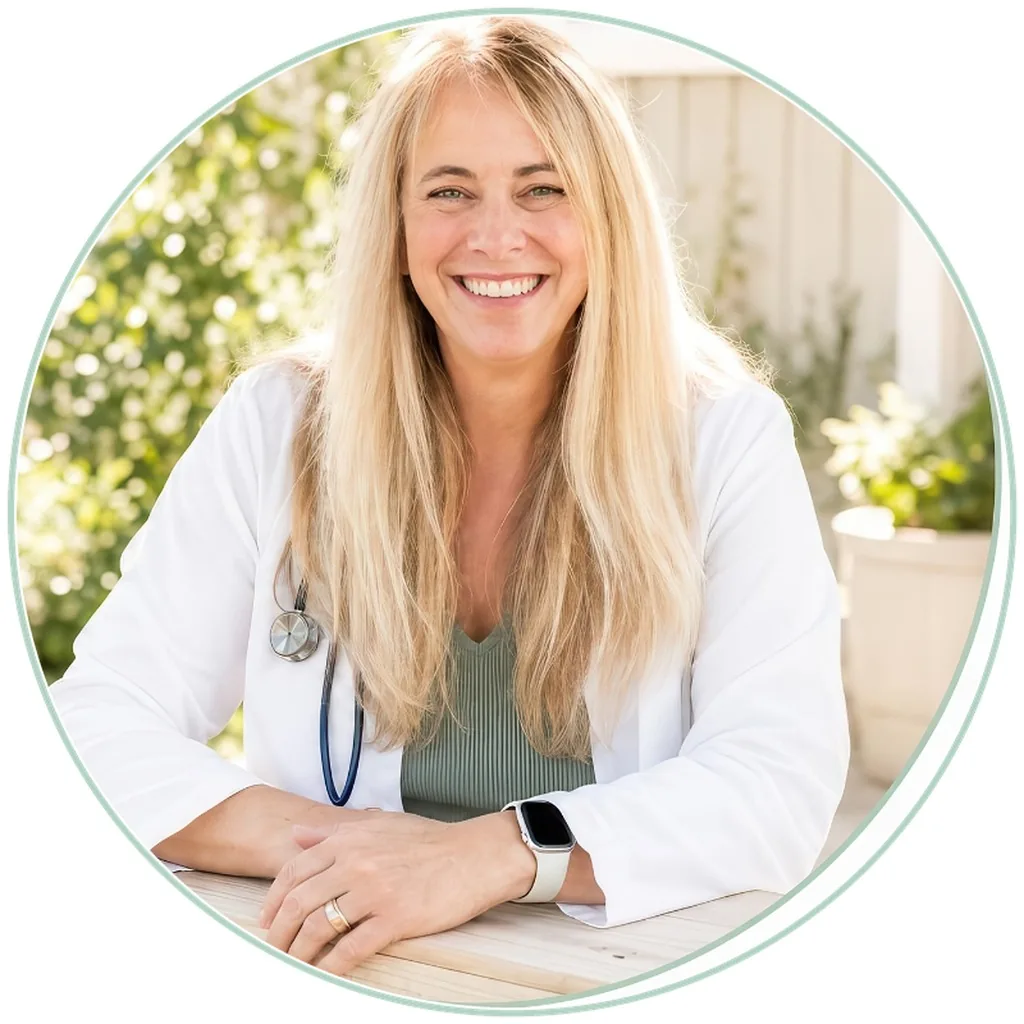
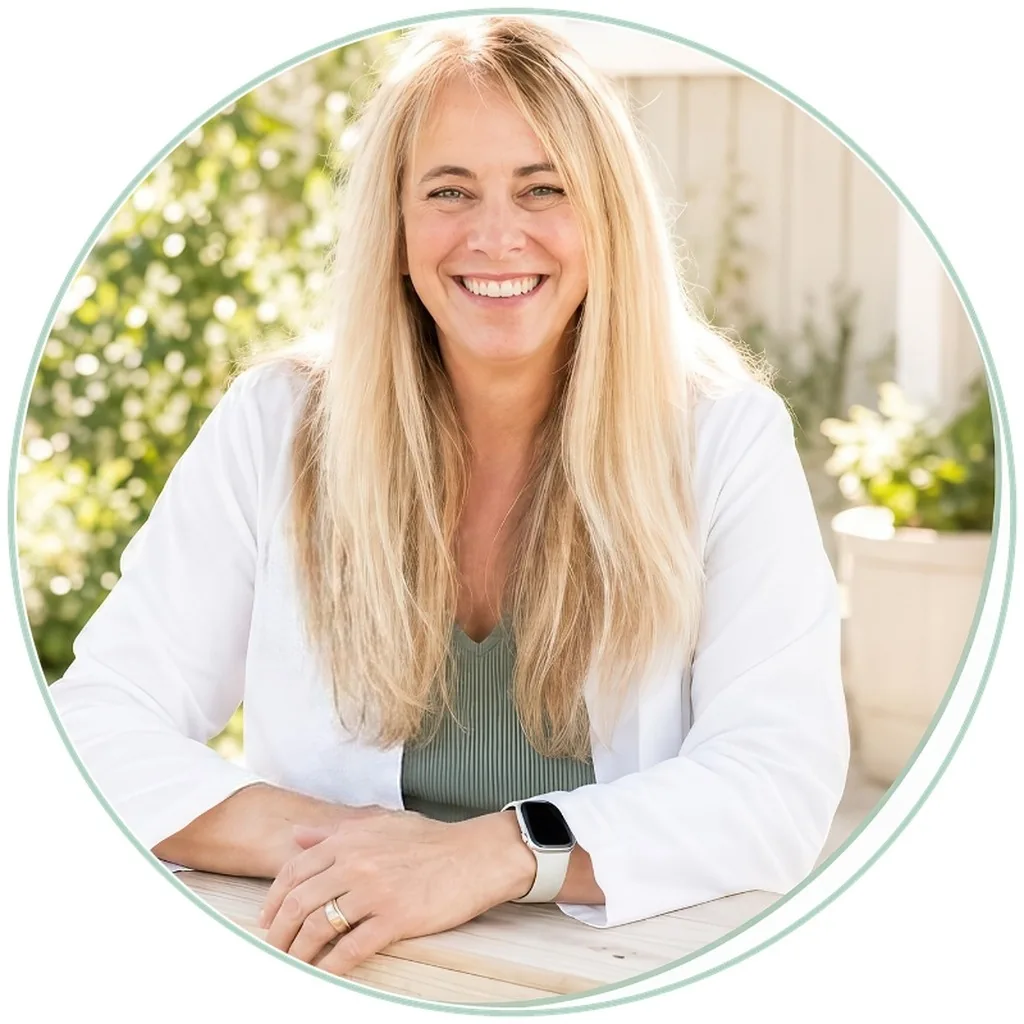
Remove fabricated stethoscope from headshot; unify author name to "Lisa Pocius, MD"
Headshot:
The live 1024px headshot showed a stethoscope that does not exist in the
source photograph. It was fabricated by the Publishflow.ai edit: the
chestpiece connected to a tubing stub that went nowhere, a separate blue
loop never joined it, and there were no earpieces. Lisa supplied a
corrected A+ module without it.

Verified the two edits are the same underlying photograph via SIFT +
RANSAC: 275 inliers of 364 matches, scale 1.3902, rotation -0.05 deg.
Warped the corrected version into the original coordinate frame and
patched only the differing region (~16,000 px of coat), with exposure
matched across the seam.

Face, hair, eyes, green top, hands, ring, watch and background are
untouched by the patch: zero pixels changed outside the coat region.
Inspected at 4x for seams and residual outlines. Regenerated
author-headshot.jpg (172 KB) and the 400/800/1024 WebP variants at
sizes within a few percent of the files they replace.

Name:
The site referred to the author as both "Dr. Lisa Pocius" (34 places)
and "Lisa Pocius, MD" (the dominant form), which splits the entity for
search engines and AI systems. Standardized on "Lisa Pocius, MD"
everywhere: 22 blog bylines, homepage h2 and titles, image alt text,
meta and Open Graph descriptions, FAQPage schema, and the feed
generator defaults. The homepage title previously read "Dr. Lisa
Pocius, MD", stacking the credential twice.

Added a non-breaking space before "MD" in the homepage h2 and About h1
[…]

Changed region(s): [[0.25, 0.5312, 0.4062, 0.8125]]

diff --git a/index.html b/index.html
@@ -12,19 +12,19 @@
 <meta charset="UTF-8">
     <meta name="viewport" content="width=device-width, initial-scale=1.0">
     <meta name="description" content="Osteoporosis: The Book I Wish I'd Had When I Was Diagnosed by Lisa Pocius, MD. Expert guidance from a doctor who lives with the condition.">
-    <title>Osteoporosis &amp; Bone Health Guide | Dr. Lisa Pocius, MD</title>
+    <title>Osteoporosis &amp; Bone Health Guide | Lisa Pocius, MD</title>
     <!-- AI Discovery: canonical, Open Graph, Twitter -->
     <link rel="canonical" href="https://mybone.health/">
     <meta name="author" content="Lisa Pocius, MD">
     <meta property="og:type" content="website">
     <meta property="og:site_name" content="mybone.health">
-    <meta property="og:title" content="Osteoporosis | Dr. Lisa Pocius - Osteoporosis &amp; Bone Health Guide">
+    <meta property="og:title" content="Osteoporosis | Lisa Pocius, MD - Osteoporosis &amp; Bone Health Guide">
     <meta property="og:description" content="Osteoporosis: The Book I Wish I&#x27;d Had When I Was Diagnosed by Lisa Pocius, MD. Expert guidance from a doctor who lives with the condition.">
     <meta property="og:url" content="https://mybone.health/">
     <meta property="og:image" content="https://mybone.health/images/book-cover.png">
     <meta property="og:locale" content="en_US">
     <meta name="twitter:card" content="summary_large_image">
-    <meta name="twitter:title" content="Osteoporosis | Dr. Lisa Pocius - Osteoporosis &amp; Bone Health Guide">
+    <meta name="twitter:title" content="Osteoporosis | Lisa Pocius, MD - Osteoporosis &amp; Bone Health Guide">
     <meta name="twitter:description" content="Osteoporosis: The Book I Wish I&#x27;d Had When I Was Diagnosed by Lisa Pocius, MD. Expert guidance from a doctor who lives with the condition.">
     <meta name="twitter:image" content="https://mybone.health/images/book-cover.png">
     <script type="application/ld+json">
@@ -1139,10 +1139,10 @@
         <div class="section-container">
             <div class="about-content about-content-compact">
                 <div class="about-image about-image-compact">
-                    <picture><source type="image/webp" srcset="images/author-headshot-400.webp 400w, images/author-headshot-800.webp 800w, images/author-headshot-1024.webp 1024w" sizes="180px"><img src="images/author-headshot.jpg" alt="Dr. Lisa Pocius" width="1024" height="1024" loading="lazy" decoding="async"></picture>
+                    <picture><source type="image/webp" srcset="images/author-headshot-400.webp 400w, images/author-headshot-800.webp 800w, images/author-headshot-1024.webp 1024w" sizes="180px"><img src="images/author-headshot.jpg" alt="Lisa Pocius, MD" width="1024" height="1024" loading="lazy" decoding="async"></picture>
                 </div>
                 <div class="about-text">
-                    <h2 style="font-size: 1.8rem; margin-bottom: 0.75rem;">About Dr. Lisa Pocius</h2>
+                    <h2 style="font-size: 1.8rem; margin-bottom: 0.75rem;">About Lisa Pocius,&nbsp;MD</h2>
                     <p>I spent ten years in family practice and believed I understood osteoporosis. Then I fell in my own front yard at 55 and fractured four vertebrae. The diagnosis came afterward, and so did the discovery of how much the textbook leaves out. <em>Osteoporosis: The Book I Wish I'd Had When I Was Diagnosed</em> is what I put together in the months that followed, written for the person sitting where I sat. <a href="about.html">Read more about me &rarr;</a></p>
                     <div class="credentials credentials-compact">
                         <div class="credential">

diff --git a/faq.html b/faq.html
@@ -11,7 +11,7 @@
     </script>
 <meta charset="UTF-8">
     <meta name="viewport" content="width=device-width, initial-scale=1.0">
-    <meta name="description" content="Common osteoporosis questions answered by Dr. Lisa Pocius, a physician who lives with the condition: diagnosis, treatment, exercise, and nutrition.">
+    <meta name="description" content="Common osteoporosis questions answered by Lisa Pocius, MD, a physician who lives with the condition: diagnosis, treatment, exercise, and nutrition.">
     <title>Osteoporosis FAQ: Answers from a Doctor Who Has It</title>
     <!-- AI Discovery: canonical, Open Graph, Twitter -->
     <link rel="canonical" href="https://mybone.health/faq.html">
@@ -19,13 +19,13 @@
     <meta property="og:type" content="website">
     <meta property="og:site_name" content="mybone.health">
     <meta property="og:title" content="Osteoporosis FAQ: Expert Answers from a Doctor &amp; Patient | mybone.health">
-    <meta property="og:description" content="Common questions about osteoporosis answered by Dr. Lisa Pocius, a physician who lives with the condition. Learn about diagnosis, treatment, exercise, nutrition, and living well with bone loss.">
+    <meta property="og:description" content="Common questions about osteoporosis answered by Lisa Pocius, MD, a physician who lives with the condition. Learn about diagnosis, treatment, exercise, nutrition, and living well with bone loss.">
     <meta property="og:url" content="https://mybone.health/faq.html">
     <meta property="og:image" content="https://mybone.health/images/author-headshot.jpg">
     <meta property="og:locale" content="en_US">
     <meta name="twitter:card" content="summary_large_image">
     <meta name="twitter:title" content="Osteoporosis FAQ: Expert Answers from a Doctor &amp; Patient | mybone.health">
-    <meta name="twitter:description" content="Common questions about osteoporosis answered by Dr. Lisa Pocius, a physician who lives with the condition. Learn about diagnosis, treatment, exercise, nutrition, and living well with bone loss.">
+    <meta name="twitter:description" content="Common questions about osteoporosis answered by Lisa Pocius, MD, a physician who lives with the condition. Learn about diagnosis, treatment, exercise, nutrition, and living well with bone loss.">
     <meta name="twitter:image" content="https://mybone.health/images/author-headshot.jpg">
     <script type="application/ld+json">
     {
@@ -66,7 +66,7 @@
       "@context": "https://schema.org",
       "@type": "FAQPage",
       "name": "Osteoporosis FAQ: Expert Answers from a Doctor & Patient",
-      "description": "Common questions about osteoporosis answered by Dr. Lisa Pocius, a physician who lives with the condition.",
+      "description": "Common questions about osteoporosis answered by Lisa Pocius, MD, a physician who lives with the condition.",
       "author": {
         "@id": "https://mybone.health/#lisa-pocius"
       },

diff --git a/blog/index.html b/blog/index.html
@@ -11,7 +11,7 @@
     </script>
 <meta charset="UTF-8">
     <meta name="viewport" content="width=device-width, initial-scale=1.0">
-    <meta name="description" content="Bone Health Insights from Dr. Lisa Pocius. Articles on nutrition, exercise, medication, and living well with osteoporosis.">
+    <meta name="description" content="Bone Health Insights from Lisa Pocius, MD. Articles on nutrition, exercise, medication, and living well with osteoporosis.">
     <title>Blog | mybone.health - Bone Health Insights</title>
     <!-- AI Discovery: canonical, Open Graph, Twitter -->
     <link rel="canonical" href="https://mybone.health/blog/">
@@ -19,13 +19,13 @@
     <meta property="og:type" content="website">
     <meta property="og:site_name" content="mybone.health">
     <meta property="og:title" content="Blog | mybone.health - Bone Health Insights">
-    <meta property="og:description" content="Bone Health Insights from Dr. Lisa Pocius. Articles on nutrition, exercise, medication, and living well with osteoporosis.">
+    <meta property="og:description" content="Bone Health Insights from Lisa Pocius, MD. Articles on nutrition, exercise, medication, and living well with osteoporosis.">
     <meta property="og:url" content="https://mybone.health/blog/">
     <meta property="og:image" content="https://mybone.health/images/book-cover.png">
     <meta property="og:locale" content="en_US">
     <meta name="twitter:card" content="summary_large_image">
     <meta name="twitter:title" content="Blog | mybone.health - Bone Health Insights">
-    <meta name="twitter:description" content="Bone Health Insights from Dr. Lisa Pocius. Articles on nutrition, exercise, medication, and living well with osteoporosis.">
+    <meta name="twitter:description" content="Bone Health Insights from Lisa Pocius, MD. Articles on nutrition, exercise, medication, and living well with osteoporosis.">
     <meta name="twitter:image" content="https://mybone.health/images/book-cover.png">
     <script type="application/ld+json">
     {

diff --git a/blog/calcium-vit-d-study-2026.html b/blog/calcium-vit-d-study-2026.html
@@ -322,7 +322,7 @@
         <div class="post-header">
             <span class="post-tag">Recent Developments</span>
             <h1>What That New Calcium and Vitamin D Study Actually Means If You Have Osteoporosis</h1>
-            <p class="post-meta">June 21, 2026 &middot; By Dr. Lisa Pocius</p>
+            <p class="post-meta">June 21, 2026 &middot; By Lisa Pocius, MD</p>
         </div>
     </div>
 

diff --git a/blog/frax-score-explained.html b/blog/frax-score-explained.html
@@ -229,7 +229,7 @@
         <div class="post-header">
             <span class="post-tag">Self-Advocacy</span>
             <h1>Your FRAX Score: What It Means, How to Run It Yourself, and When to Ask About FRAX-plus</h1>
-            <p class="post-meta">July 27, 2026 &middot; By Dr. Lisa Pocius</p>
+            <p class="post-meta">July 27, 2026 &middot; By Lisa Pocius, MD</p>
         </div>
     </div>
 

diff --git a/blog/first-osteoporosis-visit.html b/blog/first-osteoporosis-visit.html
@@ -320,7 +320,7 @@
         <div class="post-header">
             <span class="post-tag">Self-Advocacy</span>
             <h1>What Should Happen at Your First Osteoporosis Visit (and What to Ask If It Doesn't)</h1>
-            <p class="post-meta">June 14, 2026 &middot; By Dr. Lisa Pocius</p>
+            <p class="post-meta">June 14, 2026 &middot; By Lisa Pocius, MD</p>
         </div>
     </div>
 

diff --git a/blog/asking-ai-about-osteoporosis.html b/blog/asking-ai-about-osteoporosis.html
@@ -575,7 +575,7 @@
         <div class="post-header">
             <span class="post-tag">AI &amp; Patient Tools</span>
             <h1>How to Ask an AI About Your Osteoporosis Questions (Without Getting Burned)</h1>
-            <p class="post-meta">June 2, 2026 &middot; By Dr. Lisa Pocius</p>
+            <p class="post-meta">June 2, 2026 &middot; By Lisa Pocius, MD</p>
         </div>
     </div>
 

diff --git a/blog/protein-and-calcium.html b/blog/protein-and-calcium.html
@@ -574,7 +574,7 @@
         <div class="post-header">
             <span class="post-tag">Nutrition</span>
             <h1>Protein, Calcium, and the Mistake of Picking One: What Your Bones Actually Need at Once</h1>
-            <p class="post-meta">May 9, 2026 &middot; By Dr. Lisa Pocius</p>
+            <p class="post-meta">May 9, 2026 &middot; By Lisa Pocius, MD</p>
         </div>
     </div>
 

diff --git a/blog/bisphosphonates-explained.html b/blog/bisphosphonates-explained.html
@@ -574,7 +574,7 @@
         <div class="post-header">
             <span class="post-tag">Medication</span>
             <h1>Bisphosphonates Explained: What Your Doctor May Not Have Time to Tell You</h1>
-            <p class="post-meta">March 23, 2026 &middot; By Dr. Lisa Pocius</p>
+            <p class="post-meta">March 23, 2026 &middot; By Lisa Pocius, MD</p>
         </div>
     </div>
 

diff --git a/blog/dexa-tbs-vfa.html b/blog/dexa-tbs-vfa.html
@@ -574,7 +574,7 @@
         <div class="post-header">
             <span class="post-tag">Recent Developments</span>
             <h1>Beyond the T-Score: What TBS and VFA on Your DEXA Report Really Mean</h1>
-            <p class="post-meta">May 17, 2026 &middot; By Dr. Lisa Pocius</p>
+            <p class="post-meta">May 17, 2026 &middot; By Lisa Pocius, MD</p>
         </div>
     </div>
 

diff --git a/blog/balance-training.html b/blog/balance-training.html
@@ -574,7 +574,7 @@
         <div class="post-header">
             <span class="post-tag">Fall Prevention</span>
             <h1>Balance Training: The Exercise Nobody Talks About for Osteoporosis</h1>
-            <p class="post-meta">March 30, 2026 &middot; By Dr. Lisa Pocius</p>
+            <p class="post-meta">March 30, 2026 &middot; By Lisa Pocius, MD</p>
         </div>
     </div>
 

diff --git a/blog/prolia-denosumab-explained.html b/blog/prolia-denosumab-explained.html
@@ -575,7 +575,7 @@
         <div class="post-header">
             <span class="post-tag">Medication</span>
             <h1>Prolia (Denosumab): What It Does Well, and Why You Cannot Simply Stop</h1>
-            <p class="post-meta">July 30, 2026 &middot; By Dr. Lisa Pocius</p>
+            <p class="post-meta">July 30, 2026 &middot; By Lisa Pocius, MD</p>
         </div>
     </div>
 
